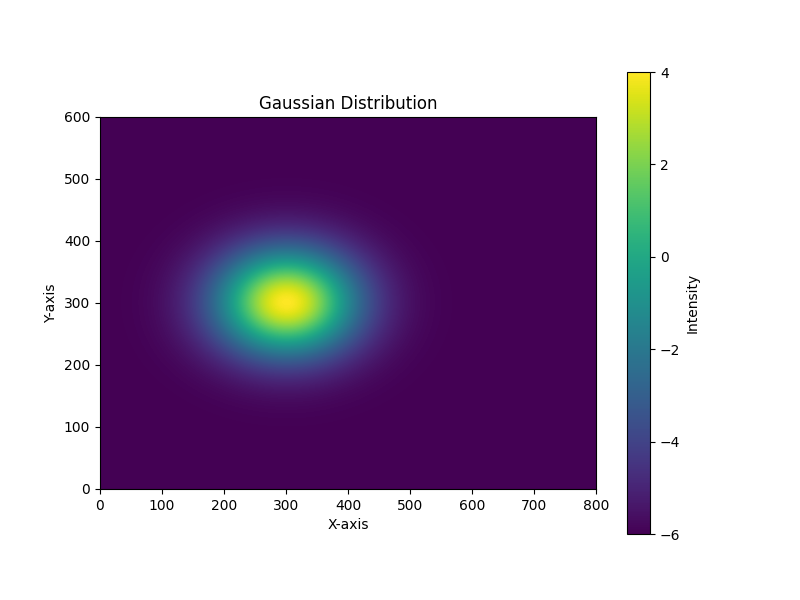
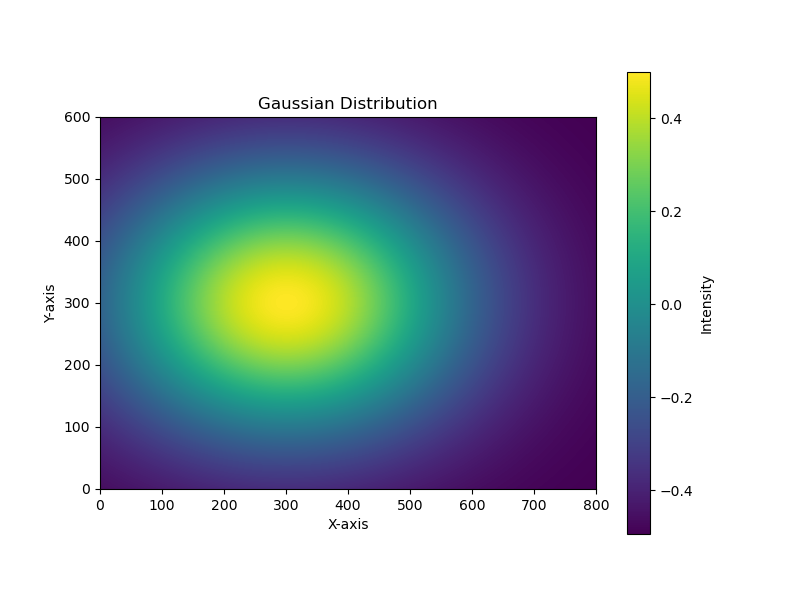
One of the best performing states so far

diff --git a/scripts/environment.py b/scripts/environment.py
@@ -9,19 +9,16 @@ from car import Car
 import matplotlib.pyplot as plt
 
 ACTIONS_MAPPING = {
-    "0": "Accelerate straight",
-    "1": "Accelerate left",
-    "2": "Accelerate right",
-    "3": "Decelerate",
-    "4": "Brake left",
-    "5": "Brake right",
-    "6": "Do nothing",
+    "0": "accelerate",
+    "1": "decelerate",
+    "2": "right",
+    "3": "left",
 }
 
 REWARDS = {
-    "collision": -1000,
+    "collision": -500,
     "parked": 1000,
-    "time_up": -1000,
+    "time_up": -500,
 }
 
 pygame.init()
@@ -37,7 +34,6 @@ GREEN = (0, 255, 0)
 CLOCK = pygame.time.Clock()
 FPS = 60
 
-
 class Environment:
     def __init__(self) -> None:
         self.generate_car()
@@ -49,6 +45,8 @@ class Environment:
         self.parked_tolerance_margin = 10
         self.env_reset()
         self.all_actions_current_run = list()
+        self.all_reward_current_run = list()
+        self.all_angle_rewards = list()
         self.gaussian_reward_plane = self.create_gaussian_plane()
         self.save_gaussian_graph()
 
@@ -67,14 +65,16 @@ class Environment:
 
         # Define Gaussian parameters
         mu_x = self.parking_spot_x
-        mu_y = self.parking_spot_y
-        sigma_x = WIDTH / 5
-        sigma_y = HEIGHT / 5
+        mu_y = HEIGHT - self.parking_spot_y
+        sigma_x = WIDTH / 4
+        sigma_y = HEIGHT / 4
 
         # Compute Gaussian distribution
-        gaussian = 2 * np.exp(
+        gaussian = 1 * np.exp(
             -(((x - mu_x) ** 2) / (2 * sigma_x ** 2) + ((y - mu_y) ** 2) / (2 * sigma_y ** 2))
         )
+
+        # gaussian = np.floor(gaussian).astype(int)
         return gaussian
     
     def save_gaussian_graph(self, filename="gaussian_reward_graph.png"):
@@ -104,6 +104,8 @@ class Environment:
         pygame.event.clear()
         if reset_actions_list:
             self.all_actions_current_run = []
+            self.all_reward_current_run = []
+            self.all_angle_rewards = []
             self.iteration_num += 1
         return self.get_current_state()
 
@@ -184,9 +186,30 @@ class Environment:
 
     def calculate_distance_reward(self):
         """Calculates the reward based on the position in the gaussian plane."""
-        x, y = self.car_agent.x, self.car_agent.y
+        x, y = self.car_agent.x, HEIGHT - self.car_agent.y
         reward = self.gaussian_reward_plane[int(y), int(x)]
         return reward
+
+    def calculate_angle_reward(self):        
+        # Compute vector differences
+        dy = self.parking_spot_y - self.car_agent.y
+        dx = self.parking_spot_x - self.car_agent.x
+
+        # Compute angle to parking spot in degrees
+        angle_to_parking_spot = math.degrees(math.atan2(dy, dx))
+
+        # Normalize angles to [0, 360)
+        car_angle = self.car_agent.angle % 360
+        angle_to_parking_spot = angle_to_parking_spot % 360
+
+        # Compute the angular difference and normalize to [0, 180]
+        diff = abs(car_angle - angle_to_parking_spot)
+        diff = min(diff, 360 - diff)
+
+        # Compute reward: Higher reward for smaller angular difference
+        reward = 1 - diff / 180
+        return reward
+
 
     def generate_video_current_run(self):
         self.env_reset(reset_actions_list=False)
@@ -199,9 +222,9 @@ class Environment:
             (frame_width, frame_height),
         )
 
-        for i in self.all_actions_current_run:
+        for i in range(len(self.all_actions_current_run)-1):
             state = self.get_current_state()
-            action = i
+            action = self.all_actions_current_run[i]
             self.move_car(action)
 
             # Draw environment in pygame
@@ -216,12 +239,32 @@ class Environment:
             frame = cv.cvtColor(
                 frame, cv.COLOR_RGB2BGR
             )  # Convert RGB to BGR for OpenCV
+
+            # Get the reward for the current frame
+            position_reward = self.all_reward_current_run[i]
+            angle_reward = self.all_angle_rewards[i]
+
+            # Add the reward text to the frame
+            font = cv.FONT_HERSHEY_SIMPLEX
+            font_scale = 0.5
+            color = (0, 0, 0)  # Green color for the reward text
+            thickness = 2
+            text = f"Position Reward: {position_reward:.2f}"  # Format reward to 2 decimal places
+
+            cv.putText(frame, text, (50, 50), font, font_scale, color, thickness)
+
+            text = f"Angle Reward: {angle_reward:.2f}"  # Format reward to 2 decimal places
+
+            cv.putText(frame, text, (400, 50), font, font_scale, color, thickness)
+
             out.write(frame)
 
             CLOCK.tick(FPS)
         print("Finished saving video!!")
         out.release()
         self.all_actions_current_run = []
+        self.all_reward_current_run = []
+        self.all_angle_rewards = []
         self.screen.fill(GRAY)
 
     def execute_move(self, action):
@@ -237,19 +280,27 @@ class Environment:
 
         # Collision detection
         if self.check_collision():
+            self.all_reward_current_run.append(REWARDS["collision"])
+            # self.generate_video_current_run()
             return True, REWARDS["collision"], state
 
         # Parking success
         if self.check_parking():
-            print("parked succesfully")
+            print(f"parked succesfully. Reward: {REWARDS['parked']}")
             self.generate_video_current_run()
+            self.all_reward_current_run.append(REWARDS["parked"])
             return True, REWARDS["parked"], state
 
-        if self.total_moves > 1000:
+        if self.total_moves > 500:
             self.total_moves = 0
+            self.all_reward_current_run.append(REWARDS["time_up"])
+            # self.generate_video_current_run()
             return True, REWARDS["time_up"], state
 
-        reward = self.calculate_distance_reward()
+        reward = self.calculate_distance_reward() + self.calculate_angle_reward()
+
+        self.all_reward_current_run.append(self.calculate_distance_reward())
+        self.all_angle_rewards.append(self.calculate_angle_reward())
 
         # Default penalty for no progress
         return False, reward, state

diff --git a/scripts/car_park.py b/scripts/car_park.py
@@ -72,7 +72,7 @@ class CarPark:
     def train_actor_critic(self, episodes, gamma=0.99, update_every=5):
         stats = {"Loss": [], "Returns": []}
         progress_bar = tqdm(range(1, episodes + 1), desc="Training", leave=True)
-        epsilon = 1.0  # Initial epsilon for exploration
+        epsilon = 0.2  # Initial epsilon for exploration
 
         for episode in progress_bar:
             state = self.environment_inst.env_reset()
